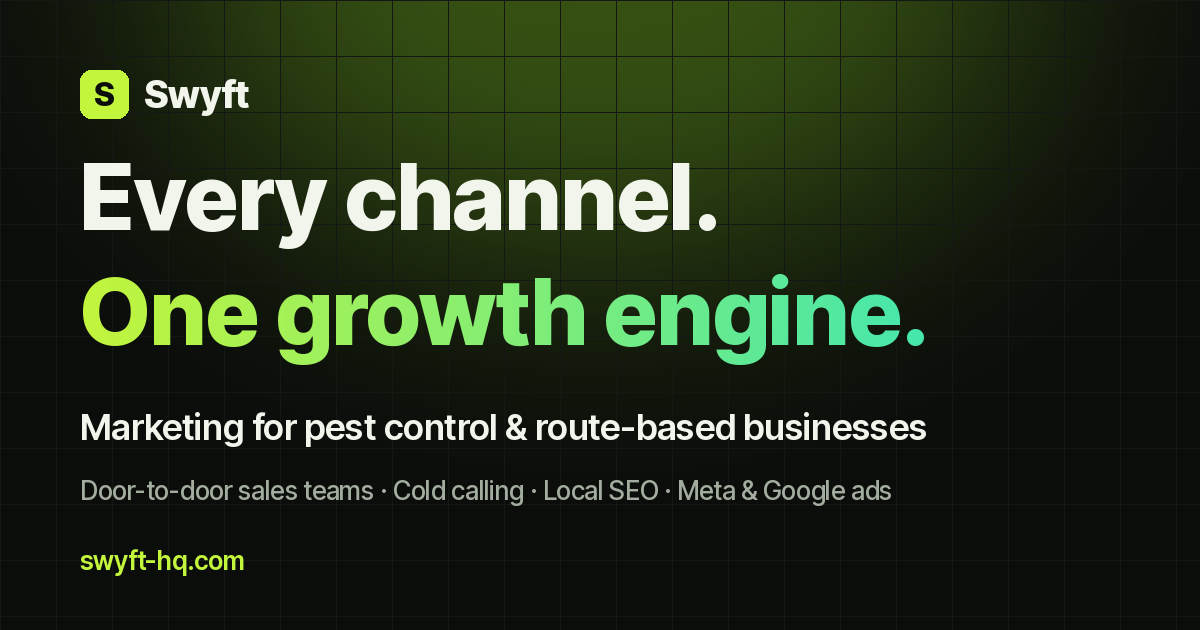
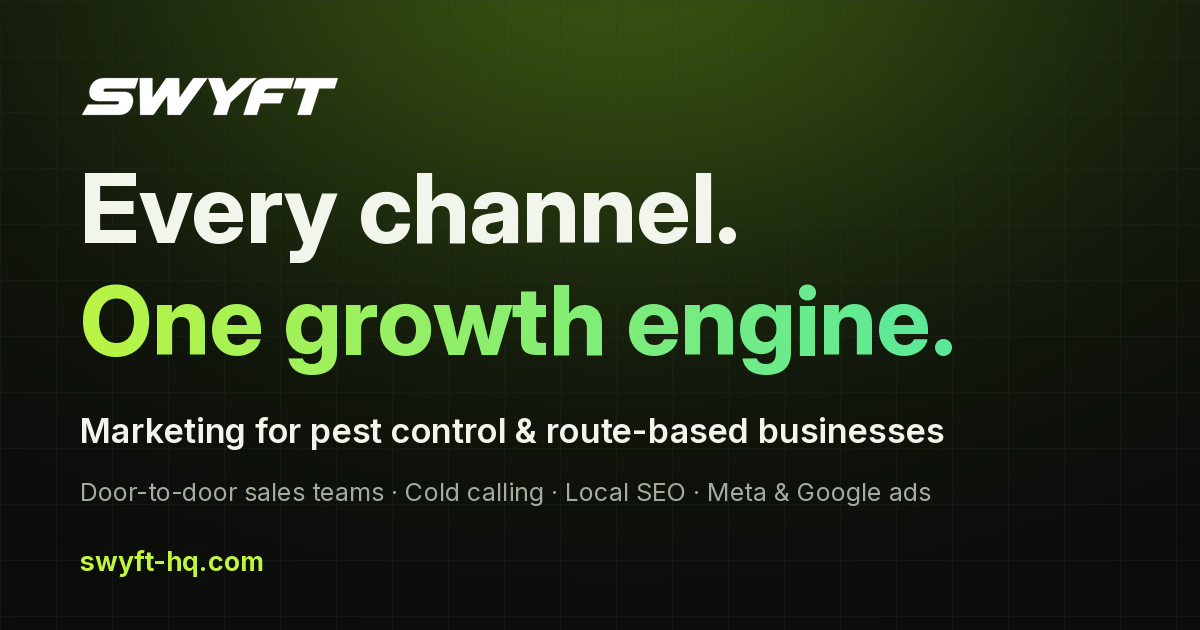
Use the real SWYFT wordmark everywhere
Replace the placeholder text 'S' mark with Colin's SWYFT wordmark:
transparent dark/light PNG + traced SVG, header/footer (light version),
favicon (S cropped from the wordmark), apple-touch icon, OG image,
and Organization schema logo. Add scripts/brand/make_logo_assets.py to
regenerate the assets from the source PNG.

diff --git a/public/assets/site.css b/public/assets/site.css
@@ -39,9 +39,9 @@ p { margin: 0 0 1em; }
 /* Header */
 .site-header { position: sticky; top: 0; z-index: 50; background: rgba(11, 13, 11, .82); backdrop-filter: blur(14px); -webkit-backdrop-filter: blur(14px); border-bottom: 1px solid var(--border); }
 .header-inner { display: flex; align-items: center; justify-content: space-between; height: 64px; gap: 16px; }
-.logo { display: inline-flex; align-items: center; gap: 9px; font-weight: 800; font-size: 1.15rem; color: var(--fg); text-decoration: none; letter-spacing: -0.02em; }
-.logo:hover { color: var(--fg); }
-.logo-mark { display: grid; place-items: center; width: 28px; height: 28px; border-radius: 7px; background: var(--primary); color: var(--primary-fg); font-size: .95rem; }
+.logo { display: inline-flex; align-items: center; line-height: 0; text-decoration: none; flex-shrink: 0; }
+.logo img { display: block; height: 22px; width: auto; }
+.foot-brand .logo img { height: 26px; }
 .nav-desktop ul, .nav-mobile ul { list-style: none; margin: 0; padding: 0; }
 .nav-desktop { display: none; }
 .nav-desktop ul { display: flex; gap: 28px; }

diff --git a/scripts/brand/make_logo_assets.py b/scripts/brand/make_logo_assets.py
@@ -1,0 +1,135 @@
+"""Regenerate Swyft logo assets from Colin's source wordmark PNG.
+
+Usage (needs: pip install pillow numpy potracer cairosvg):
+    python scripts/brand/make_logo_assets.py <source-logo.png> public/assets
+
+Outputs: logo.png, logo-white.png, logo.svg, logo-white.svg, favicon.svg,
+favicon.ico, favicon-32.png, apple-touch-icon.png, og-default.png.
+Letterforms are never redrawn: the PNGs are an alpha knockout of the source
+and the SVG is a potrace of that alpha (checked against the PNG by IoU).
+"""
+import io, sys
+import numpy as np
+import potrace, cairosvg
+from PIL import Image, ImageDraw, ImageFont
+
+src, out = sys.argv[1], sys.argv[2]
+BG = (11, 13, 11)  # site --bg
+FONT = '/usr/share/fonts/truetype/sand-box/google/Inter/Inter-VariableFont_opsz,wght.ttf'
+
+# ---- 1. knockout white background -> alpha, tight crop ----
+rgb = np.asarray(Image.open(src).convert('RGB')).astype(np.float64)
+L = rgb.mean(axis=2)
+ink = rgb[L < 90].mean(axis=0)
+a = np.clip((255 - L) / (255 - ink.mean()), 0, 1)
+a[a < 0.02] = 0
+ys, xs = np.where(a > 0.5)
+pad = 12
+a = a[max(ys.min() - pad, 0):ys.max() + pad + 1, max(xs.min() - pad, 0):xs.max() + pad + 1]
+H, W = a.shape
+A = (a * 255).round().astype(np.uint8)
+DARK = tuple(int(round(c)) for c in ink)
+
+def rgba(color, alpha=A):
+    arr = np.zeros(alpha.shape + (4,), np.uint8)
+    arr[..., :3] = color
+    arr[..., 3] = alpha
+    return Image.fromarray(arr, 'RGBA')
+
+dark_png, white_png = rgba(DARK), rgba((255, 255, 255))
+dark_png.save(f'{out}/logo.png', optimize=True)
+white_png.save(f'{out}/logo-white.png', optimize=True)
+
+# ---- 2. SVG trace ----
+curves = potrace.Bitmap(a <= 0.5).trace(turdsize=10, alphamax=1.0, opticurve=True, opttolerance=0.2)
+
+def path_d(cs):
+    d = []
+    for c in cs:
+        s = c.start_point
+        d.append(f'M{s.x:.2f} {s.y:.2f}')
+        for seg in c.segments:
+            if seg.is_corner:
+                d.append(f'L{seg.c.x:.2f} {seg.c.y:.2f}L{seg.end_point.x:.2f} {seg.end_point.y:.2f}')
+            else:
+                d.append(f'C{seg.c1.x:.2f} {seg.c1.y:.2f} {seg.c2.x:.2f} {seg.c2.y:.2f} {seg.end_point.x:.2f} {seg.end_point.y:.2f}')
+        d.append('Z')
+    return ''.join(d)
+
+D = path_d(curves)
+hexc = '#%02x%02x%02x' % DARK
+for name, fill in [('logo.svg', hexc), ('logo-white.svg', '#ffffff')]:
+    open(f'{out}/{name}', 'w').write(
+        f'<svg xmlns="http://www.w3.org/2000/svg" viewBox="0 0 {W} {H}" width="{W}" height="{H}" role="img" aria-label="Swyft logo">'
+        f'<title>Swyft logo</title><path fill="{fill}" fill-rule="evenodd" d="{D}"/></svg>\n')
+r = np.asarray(Image.open(io.BytesIO(cairosvg.svg2png(url=f'{out}/logo.svg', output_width=W, output_height=H))))[..., 3] > 127
+m = a > 0.5
+print(f'SVG trace IoU vs PNG: {(m & r).sum() / (m | r).sum():.4f}')
+
+# ---- 3. favicon: the "S" from the wordmark, white on a dark rounded square ----
+s_curve = min(curves, key=lambda c: min([c.start_point.x] + [sg.end_point.x for sg in c.segments]))
+s_mask = np.asarray(Image.open(io.BytesIO(cairosvg.svg2png(bytestring=(
+    f'<svg xmlns="http://www.w3.org/2000/svg" viewBox="0 0 {W} {H}"><path d="{path_d([s_curve])}"/></svg>').encode(),
+    output_width=W, output_height=H))))[..., 3] > 0
+sy, sx = np.where(s_mask)
+bx0, by0, bx1, by1 = sx.min(), sy.min(), sx.max() + 1, sy.max() + 1
+bw, bh = bx1 - bx0, by1 - by0
+side = 64
+scale = side * 0.78 / bw  # S is wider than tall; fit width
+tx, ty = (side - bw * scale) / 2 - bx0 * scale, (side - bh * scale) / 2 - by0 * scale
+fav_svg = (f'<svg xmlns="http://www.w3.org/2000/svg" viewBox="0 0 {side} {side}">'
+           f'<rect width="{side}" height="{side}" rx="14" fill="#0b0d0b"/>'
+           f'<path fill="#ffffff" transform="translate({tx:.3f} {ty:.3f}) scale({scale:.5f})" d="{path_d([s_curve])}"/></svg>\n')
+open(f'{out}/favicon.svg', 'w').write(fav_svg)
+big = Image.open(io.BytesIO(cairosvg.svg2png(bytestring=fav_svg.encode(), output_width=256, output_height=256))).convert('RGBA')
+big.resize((32, 32), Image.LANCZOS).save(f'{out}/favicon-32.png', optimize=True)
+big.save(f'{out}/favicon.ico', sizes=[(16, 16), (32, 32), (48, 48)])
+
+# ---- 4. apple-touch-icon: full white wordmark on dark square ----
+side = 180
+icon = Image.new('RGBA', (side, side), BG + (255,))
+lw = int(side * 0.80)
+lh = round(H * lw / W)
+icon.alpha_composite(white_png.resize((lw, lh), Image.LANCZOS), ((side - lw) // 2, (side - lh) // 2))
+icon.convert('RGB').save(f'{out}/apple-touch-icon.png', optimize=True)
+
+# ---- 5. Open Graph image 1200x630 ----
+OW, OH = 1200, 630
+yy, xx = np.mgrid[0:OH, 0:OW].astype(np.float64)
+glow = np.exp(-(((xx - 620) / 520) ** 2 + ((yy + 40) / 330) ** 2))
+base = np.array(BG, np.float64)
+tint = np.array([62, 92, 18], np.float64)
+img = base + glow[..., None] * (tint - base) * 0.85
+grid = ((xx % 56) < 1) | ((yy % 56) < 1)
+img[grid] = img[grid] * 0.75 + np.array([40, 52, 36]) * 0.25
+og = Image.fromarray(img.clip(0, 255).astype(np.uint8), 'RGB').convert('RGBA')
+
+lw = 260
+lh = round(H * lw / W)
+og.alpha_composite(white_png.resize((lw, lh), Image.LANCZOS), (80, 76))
+
+def font(size, wght):
+    f = ImageFont.truetype(FONT, size)
+    try:
+        f.set_variation_by_axes([min(32, max(14, size / 3)), wght])
+    except Exception:
+        pass
+    return f
+
+d = ImageDraw.Draw(og)
+d.text((80, 150), 'Every channel.', font=font(96, 750), fill=(241, 245, 236))
+# gradient headline line 2
+line2 = 'One growth engine.'
+f2 = font(96, 750)
+mask = Image.new('L', (OW, 130), 0)
+ImageDraw.Draw(mask).text((80, 0), line2, font=f2, fill=255)
+gx = np.linspace(0, 1, OW)[None, :, None]
+grad = (np.array([195, 245, 60]) * (1 - gx) + np.array([62, 230, 180]) * gx) * np.ones((130, 1, 1))
+gimg = Image.fromarray(grad.astype(np.uint8), 'RGB').convert('RGBA')
+gimg.putalpha(mask)
+og.alpha_composite(gimg, (0, 262))
+d.text((80, 410), 'Marketing for pest control & route-based businesses', font=font(34, 600), fill=(241, 245, 236))
+d.text((80, 476), 'Door-to-door sales teams · Cold calling · Local SEO · Meta & Google ads', font=font(25, 400), fill=(163, 173, 159))
+d.text((80, 544), 'swyft-hq.com', font=font(27, 650), fill=(195, 245, 60))
+og.convert('RGB').save(f'{out}/og-default.png', optimize=True)
+print('done', DARK, (W, H))

diff --git a/REPORT.md b/REPORT.md
@@ -41,7 +41,7 @@ Shown on the pages as dashed `[PLACEHOLDER: …]` boxes. To list them all: `node
     - "Reply within one business day" and the "20-minute strategy call". Both are from the draft.
 - **Legal:** counsel review of Privacy and Terms; governing law state; optional mailing address.
 - **Form backend:** forms currently open the visitor's email app addressed to colin@swyft-hq.com. To receive submissions directly, create a form endpoint (e.g. Formspree) and set the repo variable `FORM_ENDPOINT`. No form or CRM IDs were invented.
-- **Photos:** there are no real photos on the site yet (the rulebook asks for real job photos, not stock). Only a generated logo and OG image are used.
+- **Photos:** there are no real photos on the site yet (the rulebook asks for real job photos, not stock). The only images are Colin's real SWYFT wordmark (and icons/OG image derived from it); see LOGO-UPDATE.md.
 
 ## 6. DNS findings and proposed changes (nothing was changed)
 DNS for swyft-hq.com is at **GoDaddy**, not Cloudflare.
